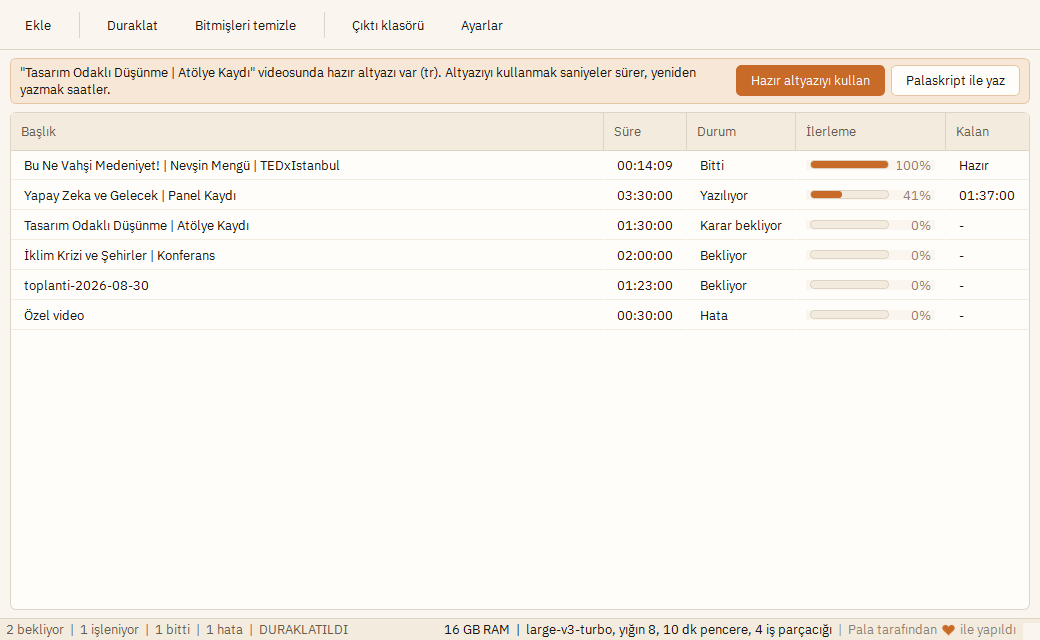
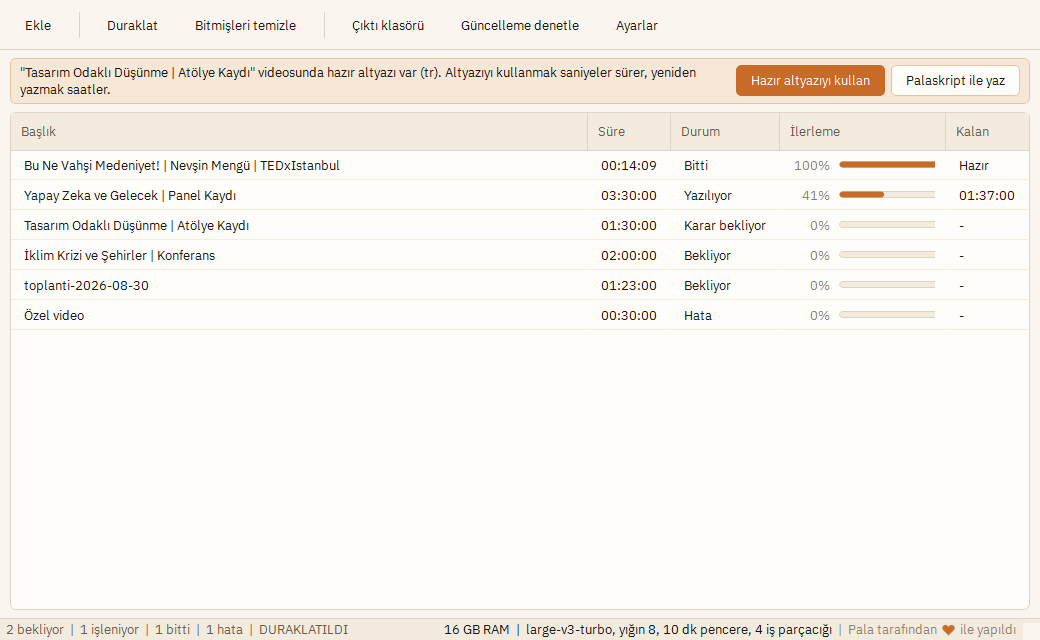
Ilerleme cubugu: yuzde basta, uzerinde isik bandi
Yuzde artik cubugun BASINDA. Icine yazilinca okunmuyordu (metin kismen turuncu
dolgunun kismen krem zeminin uzerine dusuyor, iki durumda da dogru kontrasti
veren tek renk yok), sonuna konunca da goz once cubuga sonra sayiya gidiyordu.

Cubuk uzerinde bir isik bandi geciyor. Uzun islerde cubuk dakikalarca ayni
yerde duruyor ve uygulama donmus gibi gorunuyordu; band isin surdugunu
gosteriyor. Stil sayfasiyla animasyon yapilamadigi icin QProgressBar birakildi
ve cubuk kendi paintEvent'inde ciziliyor.

Animasyon YALNIZCA islenen satirda donuyor. Kuyrukta elli is varken hepsini
birden canlandirmak, uc saat suren bir isin yaninda bosuna CPU yakmak olurdu.

Cubuga en az genislik verildi: sutun "icerige gore" boyutlanirken ozel
widget'in kendiliginden genislik ipucu olmadigi icin cubugu sifira indiriyordu.

Testler bandin gercekten hareket ettigini dogruluyor: iki farkli evrede cizilen
goruntuler karsilastiriliyor. Animasyon sessizce durursa test yakalar.

283 test geciyor.

diff --git a/palaskript/ui/progress.py b/palaskript/ui/progress.py
@@ -1,0 +1,162 @@
+"""Kuyruk tablosundaki ilerleme cubugu.
+
+Neden QProgressBar degil de kendi cizimimiz:
+
+- Yuzde metni cubugun ICINDE okunmuyordu; metin kismen turuncu dolgunun,
+  kismen krem zeminin uzerine dusuyor ve iki durumda da dogru kontrasti veren
+  tek bir renk yok. Yuzde artik cubugun BASINDA, kendi zemininde.
+- Uzun islerde cubuk dakikalarca ayni yerde duruyor ve uygulama donmus gibi
+  gorunuyor. Uzerinden gecen bir isik bandi (shimmer) isin surdugunu
+  gosteriyor. Stil sayfasiyla animasyon yapilamiyor, cizim gerekiyor.
+
+Animasyon YALNIZCA islenen satirda calisiyor. Kuyrukta elli is varken hepsini
+birden canlandirmak, uc saat suren bir isin yaninda bosuna CPU yakmak olurdu.
+"""
+
+from __future__ import annotations
+
+from PySide6.QtCore import QRectF, Qt, QTimer
+from PySide6.QtGui import QColor, QLinearGradient, QPainter, QPainterPath
+from PySide6.QtWidgets import QHBoxLayout, QLabel, QSizePolicy, QWidget
+
+from . import theme
+
+BAR_HEIGHT = 7
+BAR_RADIUS = 3.5
+
+# Cubugun en dar hali. Bunu vermezsek sutun "icerige gore" daralirken cubugu
+# sifira indiriyor: ozel widget'in kendiliginden bir genislik ipucu yok.
+BAR_MIN_WIDTH = 110
+
+# Isik bandinin bir uctan digerine gecme suresi.
+SHIMMER_PERIOD_MS = 1500
+SHIMMER_FPS = 30
+
+# Bandin genisligi, dolgunun yuzdesi olarak.
+SHIMMER_WIDTH = 0.35
+
+
+class ShimmerBar(QWidget):
+    """Ince ilerleme cubugu, uzerinden gecen isik bandiyla."""
+
+    def __init__(self, parent: QWidget | None = None) -> None:
+        super().__init__(parent)
+        self._value = 0.0
+        self._active = False
+        self._phase = 0.0
+
+        self.setFixedHeight(BAR_HEIGHT)
+        self.setMinimumWidth(BAR_MIN_WIDTH)
+        self.setSizePolicy(QSizePolicy.Policy.Expanding, QSizePolicy.Policy.Fixed)
+
+        self._timer = QTimer(self)
+        self._timer.setInterval(1000 // SHIMMER_FPS)
+        self._timer.timeout.connect(self._advance)
+
+    # ------------------------------------------------------------- durum
+
+    def value(self) -> float:
+        return self._value
+
+    def setValue(self, percent: float) -> None:  # noqa: N802 - Qt adlandirmasi
+        percent = max(0.0, min(100.0, float(percent)))
+        if percent != self._value:
+            self._value = percent
+            self.update()
+
+    def setActive(self, active: bool) -> None:  # noqa: N802 - Qt adlandirmasi
+        """Isik bandini baslat veya durdur.
+
+        Yalnizca gercekten islenen satir icin acilmali.
+        """
+        if active == self._active:
+            return
+        self._active = active
+        if active:
+            self._timer.start()
+        else:
+            self._timer.stop()
+            self._phase = 0.0
+        self.update()
+
+    def _advance(self) -> None:
+        step = (1000 / SHIMMER_FPS) / SHIMMER_PERIOD_MS
+        self._phase = (self._phase + step) % 1.0
+        self.update()
+
+    # ------------------------------------------------------------- cizim
+
+    def paintEvent(self, event) -> None:  # noqa: ANN001, N802 - Qt imzasi
+        painter = QPainter(self)
+        painter.setRenderHint(QPainter.RenderHint.Antialiasing)
+
+        rect = QRectF(0.5, 0.5, self.width() - 1.0, self.height() - 1.0)
+        track = QPainterPath()
+        track.addRoundedRect(rect, BAR_RADIUS, BAR_RADIUS)
+
+        painter.fillPath(track, QColor(theme.SURFACE_SUNKEN))
+        painter.strokePath(track, QColor(theme.BORDER))
+
+        if self._value <= 0:
+            return
+
+        fill_width = rect.width() * (self._value / 100.0)
+        # Cok kucuk degerlerde yuvarlak kose sigmiyor; en az kose capi kadar.
+        fill_width = max(fill_width, BAR_RADIUS * 2)
+        fill_rect = QRectF(rect.left(), rect.top(), fill_width, rect.height())
+
+        fill = QPainterPath()
+        fill.addRoundedRect(fill_rect, BAR_RADIUS, BAR_RADIUS)
+        painter.fillPath(fill, QColor(theme.ACCENT))
+
+        if not self._active:
+            return
+
+        # Isik bandi dolgunun disina tasmasin diye dolguya kirpiliyor.
+        painter.save()
+        painter.setClipPath(fill)
+
+        band = fill_rect.width() * SHIMMER_WIDTH
+        # Band tamamen disaridan girip tamamen disariya ciksin.
+        start = -band + self._phase * (fill_rect.width() + band)
+
+        gradient = QLinearGradient(start, 0.0, start + band, 0.0)
+        highlight = QColor(255, 255, 255, 110)
+        transparent = QColor(255, 255, 255, 0)
+        gradient.setColorAt(0.0, transparent)
+        gradient.setColorAt(0.5, highlight)
+        gradient.setColorAt(1.0, transparent)
+
+        painter.fillRect(fill_rect, gradient)
+        painter.restore()
+
+
+class ProgressCell(QWidget):
+    """Tablo hucresi: once yuzde, sonra cubuk.
+
+    Yuzde BASTA cunku cubugun icine yazilinca okunmuyordu ve sonuna konunca
+    goz once cubuga, sonra sayiya gidiyordu. Basta olunca satiri soldan saga
+    okurken sayi ilk geliyor.
+    """
+
+    def __init__(self, parent: QWidget | None = None) -> None:
+        super().__init__(parent)
+        row = QHBoxLayout(self)
+        row.setContentsMargins(4, 0, 6, 0)
+        row.setSpacing(9)
+
+        self.percent = QLabel("0%")
+        # Sabit genislik: satirlar arasinda cubuklar hizali dursun, sayi
+        # buyudukce cubuk kaymasin.
+        self.percent.setMinimumWidth(36)
+        self.percent.setAlignment(Qt.AlignmentFlag.AlignRight | Qt.AlignmentFlag.AlignVCenter)
+        self.percent.setProperty("muted", True)
+        row.addWidget(self.percent)
+
+        self.bar = ShimmerBar()
+        row.addWidget(self.bar, 1)
+
+    def update_state(self, percent: float, *, active: bool) -> None:
+        self.bar.setValue(percent)
+        self.bar.setActive(active)
+        self.percent.setText(f"{int(percent)}%")

diff --git a/tests/test_progress.py b/tests/test_progress.py
@@ -1,0 +1,142 @@
+"""Ilerleme cubugu.
+
+Isik bandinin gercekten hareket ettigini ekran goruntusu kanitlamiyor; iki
+farkli evrede cizilen goruntulerin FARKLI oldugunu dogruluyoruz. Animasyon
+sessizce durursa bu test yakalar.
+"""
+
+from __future__ import annotations
+
+import os
+
+import pytest
+
+pytest.importorskip("PySide6")
+
+os.environ.setdefault("QT_QPA_PLATFORM", "offscreen")
+
+from PySide6.QtWidgets import QApplication  # noqa: E402
+
+from palaskript.ui.progress import ProgressCell, ShimmerBar  # noqa: E402
+
+
+@pytest.fixture(scope="module")
+def app():
+    return QApplication.instance() or QApplication([])
+
+
+def _pixels(bar: ShimmerBar) -> bytes:
+    image = bar.grab().toImage()
+    return image.constBits().tobytes()
+
+
+class TestValue:
+    def test_clamps_out_of_range(self, app):
+        bar = ShimmerBar()
+        bar.setValue(-10)
+        assert bar.value() == 0
+        bar.setValue(250)
+        assert bar.value() == 100
+
+    def test_stores_fractional_values(self, app):
+        bar = ShimmerBar()
+        bar.setValue(41.6)
+        assert bar.value() == pytest.approx(41.6)
+
+
+class TestShimmer:
+    def test_timer_runs_only_while_active(self, app):
+        """Kuyrukta elli is varken hepsini canlandirmak bosuna CPU yakar."""
+        bar = ShimmerBar()
+        assert not bar._timer.isActive()
+
+        bar.setActive(True)
+        assert bar._timer.isActive()
+
+        bar.setActive(False)
+        assert not bar._timer.isActive()
+
+    def test_repeated_set_active_does_not_restart(self, app):
+        bar = ShimmerBar()
+        bar.setActive(True)
+        bar.setActive(True)
+        assert bar._timer.isActive()
+
+    def test_band_actually_moves(self, app):
+        """Iki evre arasinda cizim degismeli, yoksa animasyon durmus demektir."""
+        bar = ShimmerBar()
+        bar.resize(200, 7)
+        bar.setValue(60)
+        bar.setActive(True)
+
+        bar._phase = 0.15
+        first = _pixels(bar)
+        bar._phase = 0.65
+        second = _pixels(bar)
+
+        assert first != second
+
+    def test_inactive_bar_is_static(self, app):
+        """Band kapaliyken evre degisse bile goruntu ayni kalmali."""
+        bar = ShimmerBar()
+        bar.resize(200, 7)
+        bar.setValue(60)
+        bar.setActive(False)
+
+        bar._phase = 0.15
+        first = _pixels(bar)
+        bar._phase = 0.65
+        second = _pixels(bar)
+
+        assert first == second
+
+    def test_phase_wraps_around(self, app):
+        bar = ShimmerBar()
+        bar._phase = 0.99
+        for _ in range(5):
+            bar._advance()
+        assert 0.0 <= bar._phase < 1.0
+
+    def test_zero_progress_draws_no_fill(self, app):
+        """Bos cubuk ile 0 degerli cubuk ayni gorunmeli."""
+        empty = ShimmerBar()
+        empty.resize(200, 7)
+        empty.setValue(0)
+
+        other = ShimmerBar()
+        other.resize(200, 7)
+        other.setValue(0)
+        other.setActive(True)
+
+        assert _pixels(empty) == _pixels(other)
+
+
+class TestProgressCell:
+    def test_percentage_comes_before_the_bar(self, app):
+        """Yuzde BASTA olmali: cubugun icinde okunmuyordu."""
+        cell = ProgressCell()
+        layout = cell.layout()
+        assert layout.itemAt(0).widget() is cell.percent
+        assert layout.itemAt(1).widget() is cell.bar
+
+    def test_update_state_sets_everything(self, app):
+        cell = ProgressCell()
+        cell.update_state(41.6, active=True)
+        assert cell.percent.text() == "41%"
+        assert cell.bar.value() == pytest.approx(41.6)
+        assert cell.bar._timer.isActive()
+
+    def test_finished_job_stops_the_shimmer(self, app):
+        cell = ProgressCell()
+        cell.update_state(100, active=True)
+        cell.update_state(100, active=False)
+        assert cell.percent.text() == "100%"
+        assert not cell.bar._timer.isActive()
+
+    def test_percentage_column_width_is_stable(self, app):
+        """Sayi buyudukce cubuk kaymamali."""
+        cell = ProgressCell()
+        cell.update_state(5, active=False)
+        narrow = cell.percent.minimumWidth()
+        cell.update_state(100, active=False)
+        assert cell.percent.minimumWidth() == narrow

diff --git a/palaskript/ui/window.py b/palaskript/ui/window.py
@@ -23,7 +23,6 @@ from PySide6.QtWidgets import (
     QMainWindow,
     QMenu,
     QMessageBox,
-    QProgressBar,
     QProgressDialog,
     QPushButton,
     QSystemTrayIcon,
@@ -45,40 +44,13 @@ from ..resources import choose_profile, detect
 from ..source import resolver
 from . import theme
 from .add_dialog import AddDialog
+from .progress import ProgressCell
 from .settings_dialog import SettingsDialog
 
 _REFRESH_MS = 500
 
 _COLUMNS = ["Başlık", "Süre", "Durum", "İlerleme", "Kalan"]
 _COL_TITLE, _COL_DURATION, _COL_STATUS, _COL_PROGRESS, _COL_ETA = range(5)
-
-
-def _progress_cell() -> QWidget:
-    """Ilerleme hucresi: ince cubuk + ayri yuzde etiketi.
-
-    Yuzdeyi cubugun ICINE yazdirmak okunmaz sonuc veriyordu: metin kismen
-    turuncu dolgunun, kismen krem zeminin uzerine dusuyor ve iki durumda da
-    dogru kontrasti veren tek bir renk yok.
-    """
-    container = QWidget()
-    row = QHBoxLayout(container)
-    row.setContentsMargins(4, 0, 4, 0)
-    row.setSpacing(8)
-
-    bar = QProgressBar()
-    bar.setRange(0, 100)
-    bar.setTextVisible(False)
-    row.addWidget(bar, 1)
-
-    percent = QLabel("0%")
-    percent.setMinimumWidth(34)
-    percent.setAlignment(Qt.AlignmentFlag.AlignRight | Qt.AlignmentFlag.AlignVCenter)
-    percent.setProperty("muted", True)
-    row.addWidget(percent)
-
-    container.bar = bar
-    container.percent = percent
-    return container
 
 
 class UpdateChecker(QObject):
@@ -433,7 +405,7 @@ class MainWindow(QMainWindow):
             for col in (_COL_TITLE, _COL_DURATION, _COL_STATUS, _COL_ETA):
                 if self.table.item(row, col) is None:
                     self.table.setItem(row, col, QTableWidgetItem())
-            self.table.setCellWidget(row, _COL_PROGRESS, _progress_cell())
+            self.table.setCellWidget(row, _COL_PROGRESS, ProgressCell())
             self._update_row(row, job)
 
     def _update_row(self, row: int, job: Job) -> None:
@@ -458,10 +430,9 @@ class MainWindow(QMainWindow):
         status_item.setToolTip(job.message or job.error or "")
 
         cell = self.table.cellWidget(row, _COL_PROGRESS)
-        if cell is not None:
-            percent = int(job.progress * 100)
-            cell.bar.setValue(percent)
-            cell.percent.setText(f"{percent}%")
+        if isinstance(cell, ProgressCell):
+            # Isik bandi yalnizca gercekten islenen satirda donuyor.
+            cell.update_state(job.progress * 100, active=job.status == "running")
 
         eta = "-"
         if job.status == "running" and job.eta_seconds and job.eta_seconds > 0:
